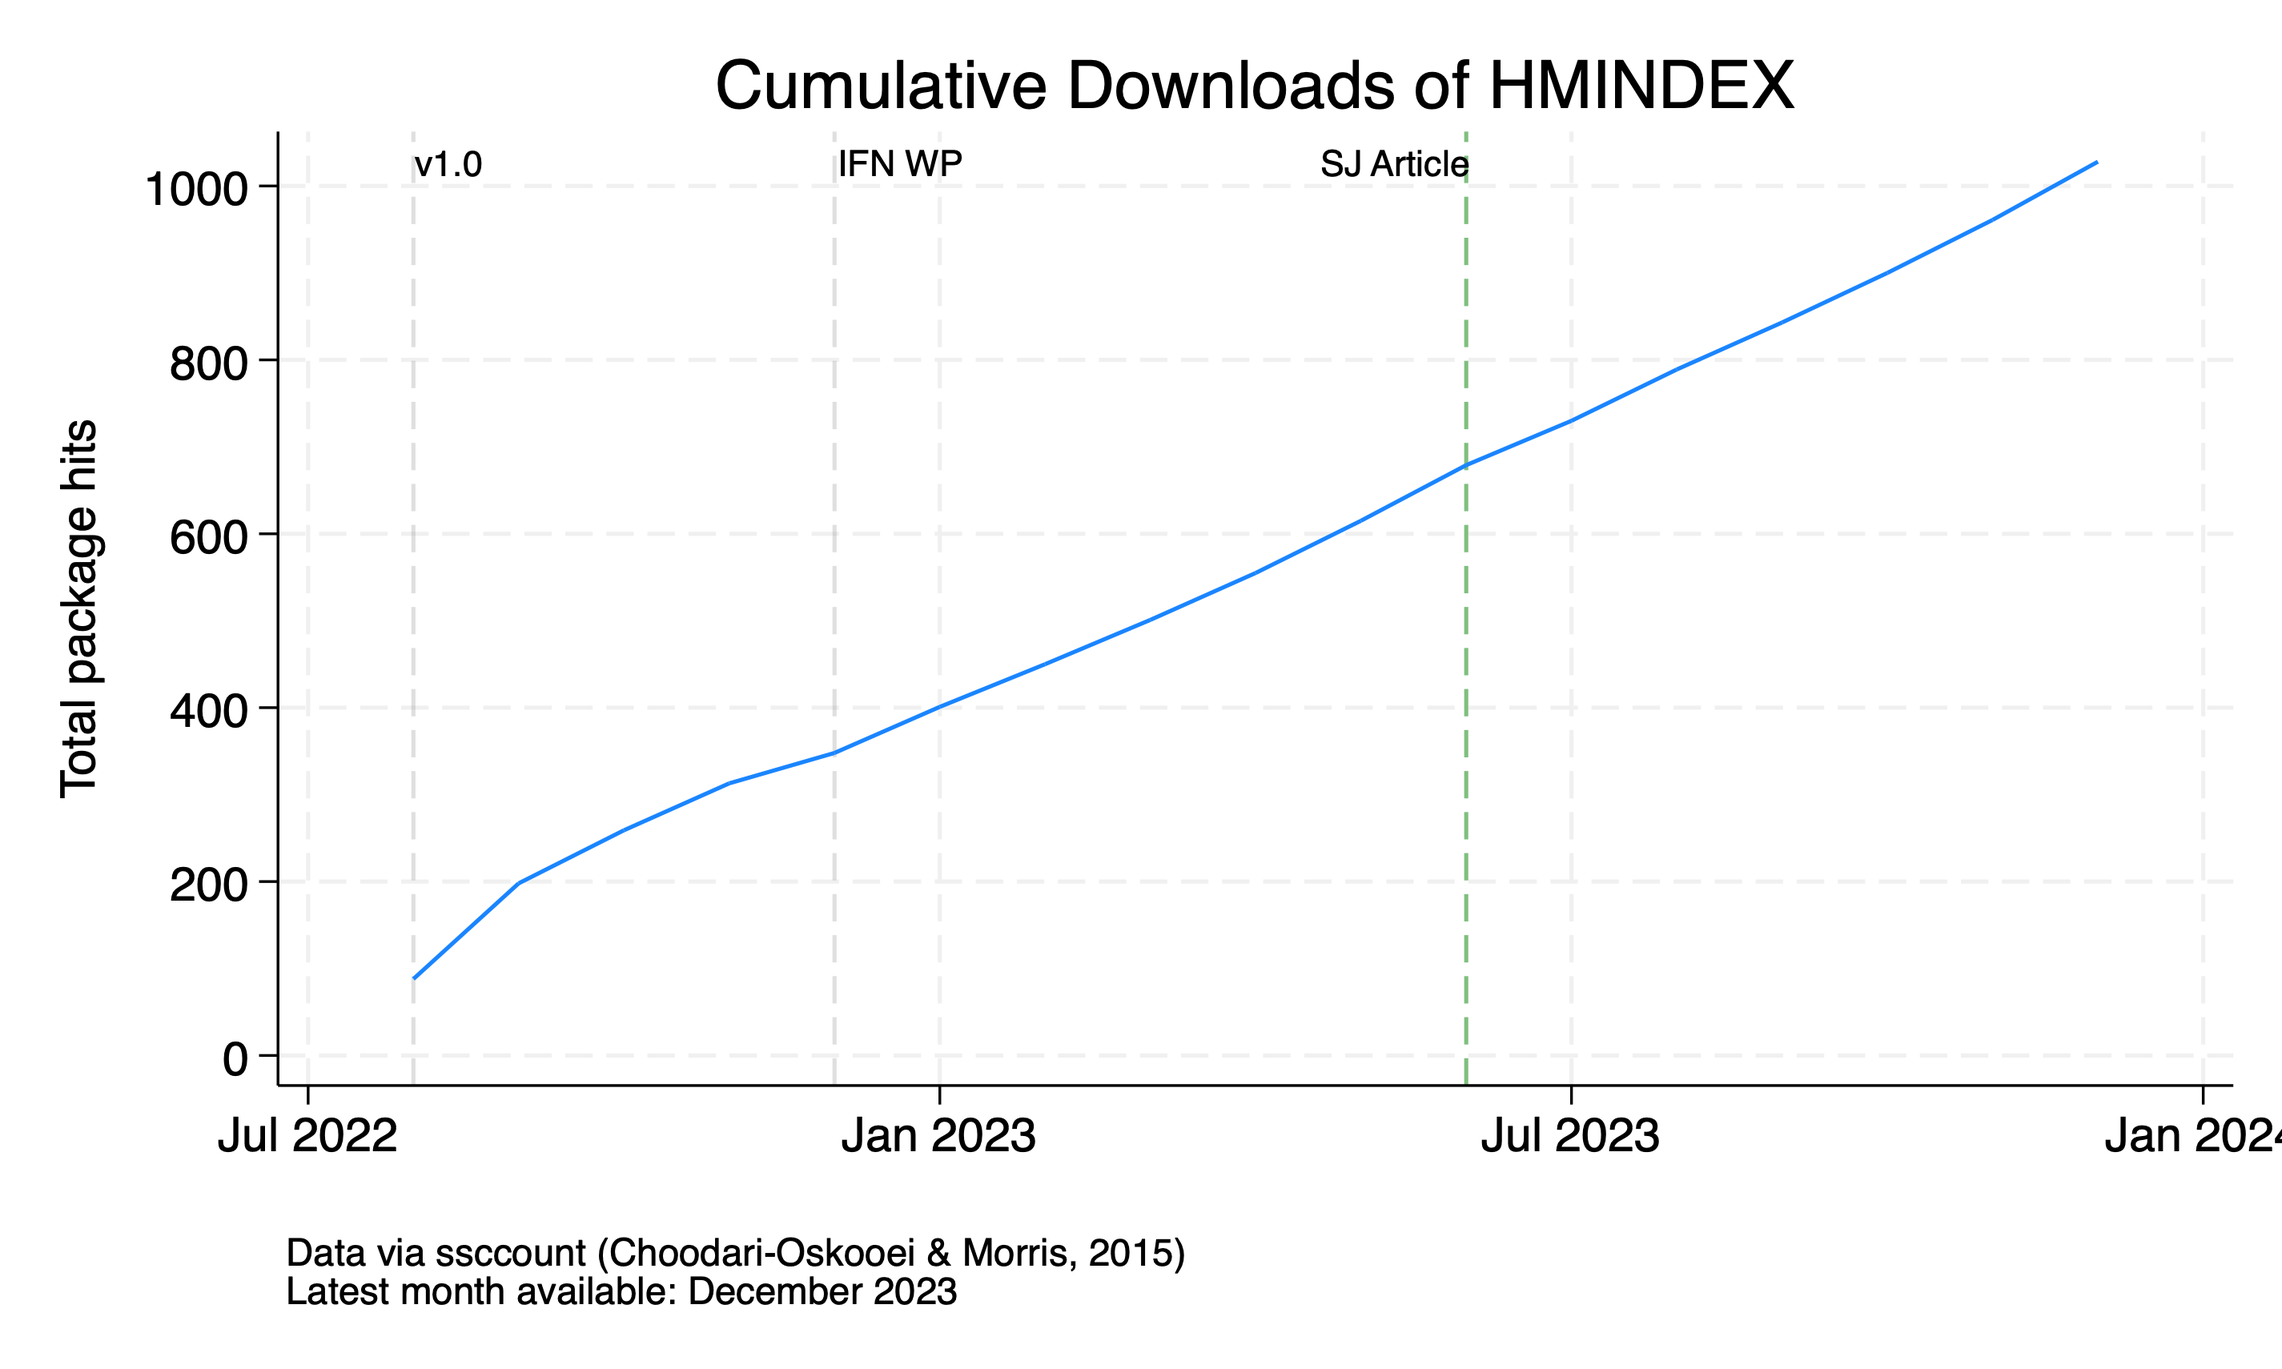
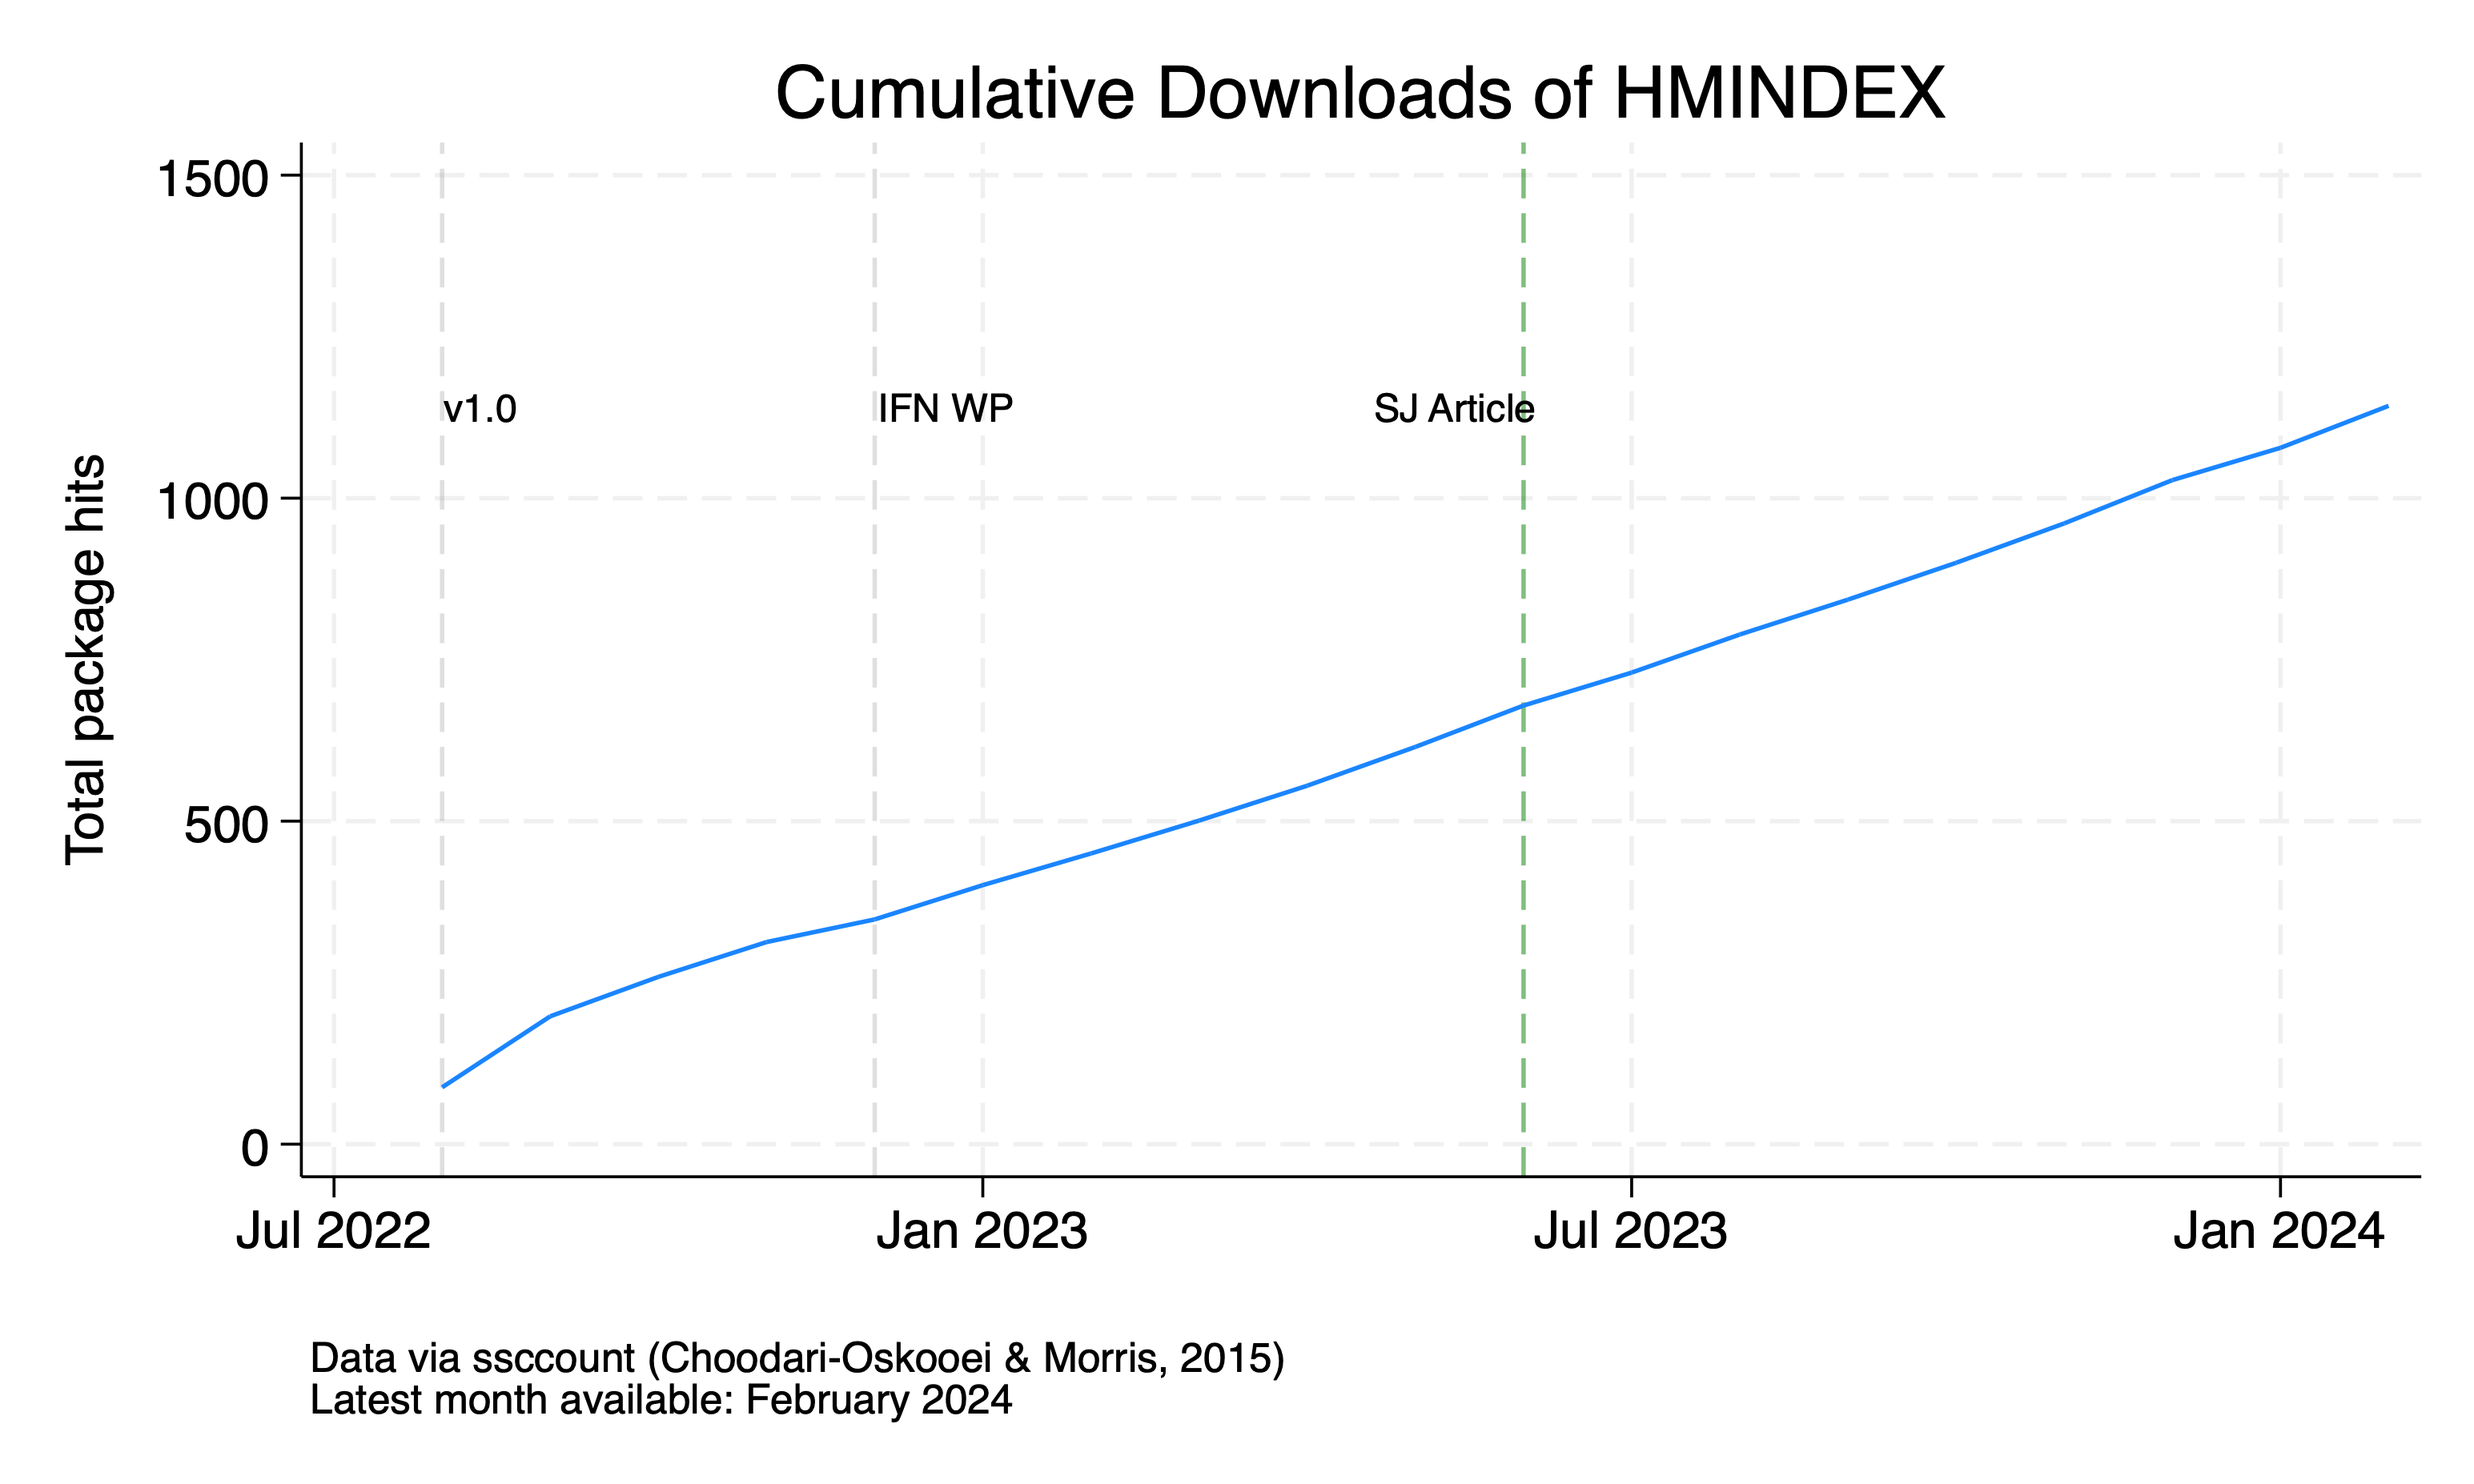
update npkghits & plots

diff --git a/_posts/2022-07-01-rpaxioms.md b/_posts/2022-07-01-rpaxioms.md
@@ -17,7 +17,7 @@ household-level aggregate consumption data.
 ## Citation
 Demetry, M., Hjertstrand, P. and Polisson, M., 2022. Testing axioms of revealed preference in Stata. <i>The Stata Journal</i>, 22(2), pp.319-343.
 
-## Total downloads: 2,229
+## Total downloads: 2,376
 <img src="/assets/img/rpaxioms_cumulative_hits.png" alt="number of downloads" width="100%"/>
 
 <details>

diff --git a/_posts/2022-12-01-hmindex.md b/_posts/2022-12-01-hmindex.md
@@ -13,7 +13,7 @@ note introduces the _Stata_ command __hmindex__, which calculates the Houtman-Ma
 prices and observed choices of a consumer. The command is illustrated with an empirical application.
 
 
-## Total downloads: 1028
+## Total downloads: 1,143
 <img src="/assets/img/hmindex_cumulative_hits.png" alt="number of downloads" width="100%"/>
 
 
